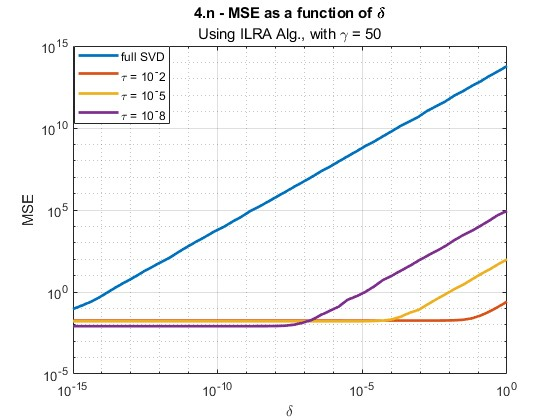
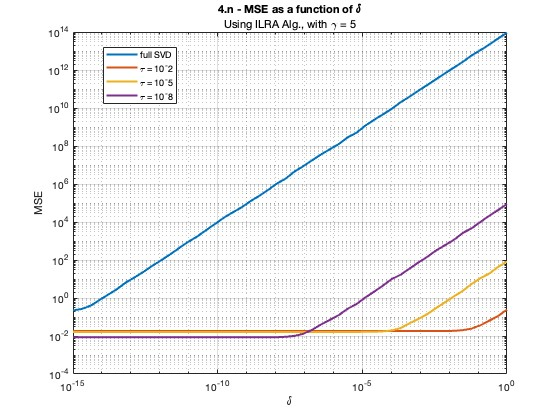
DONE?

diff --git a/main3.m b/main3.m
@@ -49,64 +49,79 @@ end
 gamma_list = (1:5:150);
 M = length(gamma_list);
 A_norm = norm(A,'fro');
-informed_time = zeros(1,M);
-relative_error = zeros(1,M);
 
-tau = 10^-5;
+tau_l = [10^-2, 10^-5, 10^-8];
+T = length(tau_l);
 tau_r = 0.1;
 mc_num=99;
 
-%get classic truncated SVD algo time
-tic;
-[U,S,V] = svd(A);
-simple_rank = sum(diag(S)>tau);
-A_truncated = U(:,1:simple_rank)* S(1:simple_rank,1:simple_rank)* V(:,1:simple_rank)';
-simple_tranc_time = toc;
+informed_time = zeros(T,M);
+relative_error = zeros(T,M);
+simple_tranc_time = zeros(T,1);
 
-for g=1:length(gamma_list)
-    gamma_test = gamma_list(1,g);
-    relative_error_mc = zeros(1,mc_num);
-
-    for mc=1:mc_num
-        %get algo time
-        tic;
-        [U_hat, B_hat, rank_l] = informed_lr_approx(A, gamma_test, tau, tau_r);
-        A_informed = U_hat*B_hat;
-        end_informed_algo_time = toc;
-        informed_time(1, g) = informed_time(1, g)+end_informed_algo_time/mc_num;
-        
-        %relative error
-        relative_error(1,g) = relative_error(1,g) + (norm(A_truncated-A_informed,'fro')/norm(A_truncated,'fro'))/mc_num;
+for t=1:T
+    tau = tau_l(1,t);
+    %get classic truncated SVD algo time
+    tic;
+    [U,S,V] = svd(A);
+    simple_rank = sum(diag(S)>tau);
+    A_truncated = U(:,1:simple_rank)* S(1:simple_rank,1:simple_rank)* V(:,1:simple_rank)';
+    simple_tranc_time(t,1) = toc;
+    
+    for g=1:length(gamma_list)
+        gamma_test = gamma_list(1,g);
+        relative_error_mc = zeros(1,mc_num);
+    
+        for mc=1:mc_num
+            %get algo time
+            tic;
+            [U_hat, B_hat, rank_l] = informed_lr_approx(A, gamma_test, tau, tau_r);
+            A_informed = U_hat*B_hat;
+            end_informed_algo_time = toc;
+            informed_time(t, g) = informed_time(t, g)+end_informed_algo_time/mc_num;
+            
+            %relative error
+            relative_error(t,g) = relative_error(t,g) + (norm(A_truncated-A_informed,'fro')/norm(A_truncated,'fro'))/mc_num;
+        end
     end
-
 end
-
+%%
+color = ['b',"r","y"];
+color_val = [[0 0.4470 0.7410]; [0.6350 0.0780 0.1840]; [0.9290 0.6940 0.1250]];
 figure(1)
-scatter(gamma_list,informed_time,'filled','LineWidth',2)
 hold on
 title('3.k - Time Complexity as a function of \gamma')
 grid on
-p = polyfit(gamma_list,informed_time,1);
-f = polyval(p,gamma_list);
-plot(gamma_list,f,"Color",[0,0,1])
-plot(gamma_list,simple_tranc_time*ones(1,M),'LineStyle','--',"LineWidth",2)
-hold off
+for pl=1:T
+    %algorithm time
+    scatter(gamma_list,informed_time(pl,:),color(1,pl),'filled','LineWidth',2)
+    %trend line
+    p = polyfit(gamma_list,informed_time(pl,:),1);
+    f = polyval(p,gamma_list);
+    plot(gamma_list,f,"Color",color_val(pl,:))
+    %truncated time
+    plot(gamma_list,simple_tranc_time(pl,1)*ones(1,M),"Color",color_val(pl,:),'LineStyle','--',"LineWidth",2)
+end
 xlabel("\gamma")
 ylabel("Time [sec]")
-legend('Fast LR Approx Time Points', 'Trend Line','Straightforward SVD', 'Location','west')
+set(gca,'yscale','log')
+%legend('Fast LR Approx Time Points', 'Trend Line','Straightforward SVD', 'Location','west')
+hold off
 f = gcf;
-exportgraphics(f,'3.k - Time Complexity as a function of gamma.jpg','Resolution',150)
-
+%exportgraphics(f,'3.k - Time Complexity as a function of gamma.jpg','Resolution',150)
+%%
 figure(2)
 scatter(gamma_list,relative_error,'filled','LineWidth',2)
 xlabel("\gamma")
 grid on
 title('3.k - Relative Error as a function of \gamma')
 hold on
-plot(gamma_list,relative_error,"Color",[0,0,1])
+plot(gamma_list,relative_error,"Color",[0,0,0.1])
 hold off
+legend('\tau = 10^-2','\tau = 10^-5','\tau = 10^-8','Location','best')
+set(gca,'yscale','log')
 f = gcf;
-exportgraphics(f,'3.k - Relative Error as a function of gamma.jpg','Resolution',150)
+exportgraphics(f,'3.k - Relative Error as a function of gamma with tau compare.jpg','Resolution',150)
 %% i
 clear
 

diff --git a/main4.m b/main4.m
@@ -58,44 +58,32 @@ disp(num2str(condition_num_A,5))
 %% n - solve with Different Algo.1
 
 tau_list = [10^-2, 10^-5, 10^-8];
-gamma = 30;
+gamma = 10;
 error_list_algosolve_SVD = zeros(length(tau_list), length(error_delta_range));
-algo_num = 1; %1 or 2
-monte_carlo_num = 100; %change the mc number to 1 inside find_t_and_error_func
-
 algo_num = 2; %1 or 2
-monte_carlo_num = 1; %change the mc number to 1 inside find_t_and_error_func
+monte_carlo_num = 10; %change the mc number to 1 inside find_t_and_error_func
+
 error_list_algosolve_SVD = zeros(2, length(tau_list), length(error_delta_range));
 for t=1:size(tau_list,2)
     tau = tau_list(1,t);
     if algo_num == 1
         tau_r_or_B_0 = 0.1; %for tau_r
     elseif algo_num == 2
-<<<<<<< Updated upstream
-        tau_r_or_B_0 = 5; %for B_0
-=======
-        tau_r_or_B_0 = 100; %for B_0
->>>>>>> Stashed changes
+        tau_r_or_B_0 = 1; %for B_0
     else 
         disp("Wrong Algo_num values")
     end
     for mc=1:monte_carlo_num
         [U_LR_hat,S_LR_hat,V_LR_hat, Rank_l] = Improve_accuracy_for_LS_solve(algo_num, A, gamma, tau, tau_r_or_B_0);
-
         [~ ,error_list_tmp] = find_t_and_error(A,U_LR_hat,S_LR_hat,V_LR_hat,t_orig, error_delta_range);
-<<<<<<< Updated upstream
         error_list_algosolve_SVD(algo_num, t,:) = error_list_algosolve_SVD(algo_num, t, :) + reshape(error_list_tmp, [], 1, length(error_list_tmp)) / monte_carlo_num;
-=======
-        error_list_algosolve_SVD(t,:) = error_list_algosolve_SVD(t,:) + error_list_tmp / monte_carlo_num;
->>>>>>> Stashed changes
     end
 end
-%%
+
 %plot error found with Algo num
 figure(2)
 plot(error_delta_range, error_list_full_SVD,'LineWidth',2)
 hold on
-<<<<<<< Updated upstream
 plot(error_delta_range, squeeze(error_list_algosolve_SVD(algo_num, :, :)),'LineWidth',2)
 title("4.n - MSE as a function of \delta")
 if algo_num == 1
@@ -104,17 +92,14 @@ else if algo_num == 2
     subtitle("Using UILRA Alg., with B_{0} = " + num2str(tau_r_or_B_0) + " and \gamma = " + num2str(gamma))
 end
 end
-=======
-plot(error_delta_range,error_list_algosolve_SVD,'LineWidth',2)
-title("4.n - MSE as a function of \delta")
-subtitle("Using ILRA Algorithm")
->>>>>>> Stashed changes
 xlabel("\delta")
 ylabel("MSE")
 set(gca,'xscale','log','YScale','log')
 grid on
 legend("full SVD", '\tau = 10^-2','\tau = 10^-5','\tau = 10^-8')
 hold off
+
+
 
 %% PINV solution as a reference
 monte_carlo_num = 100;
